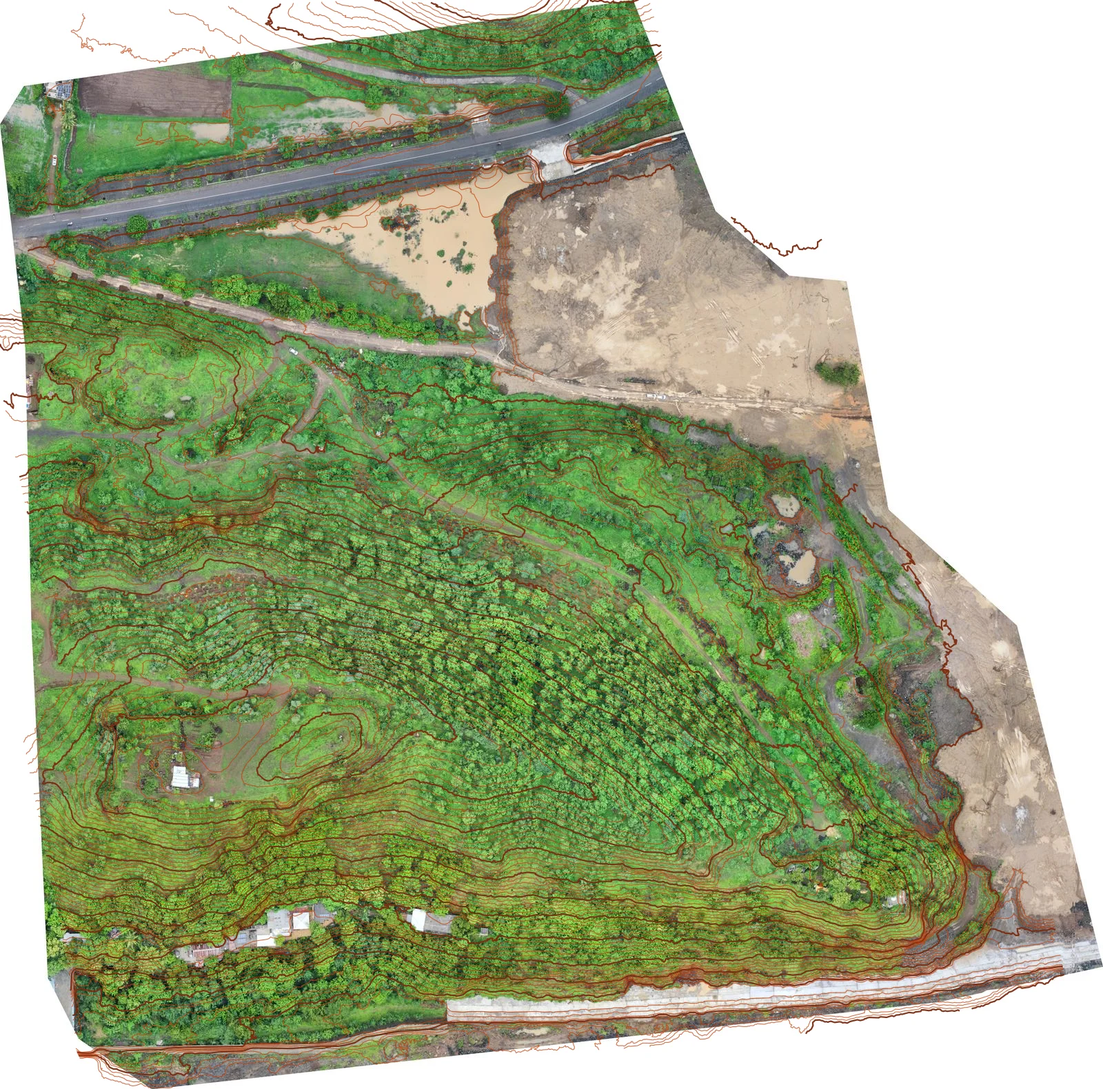
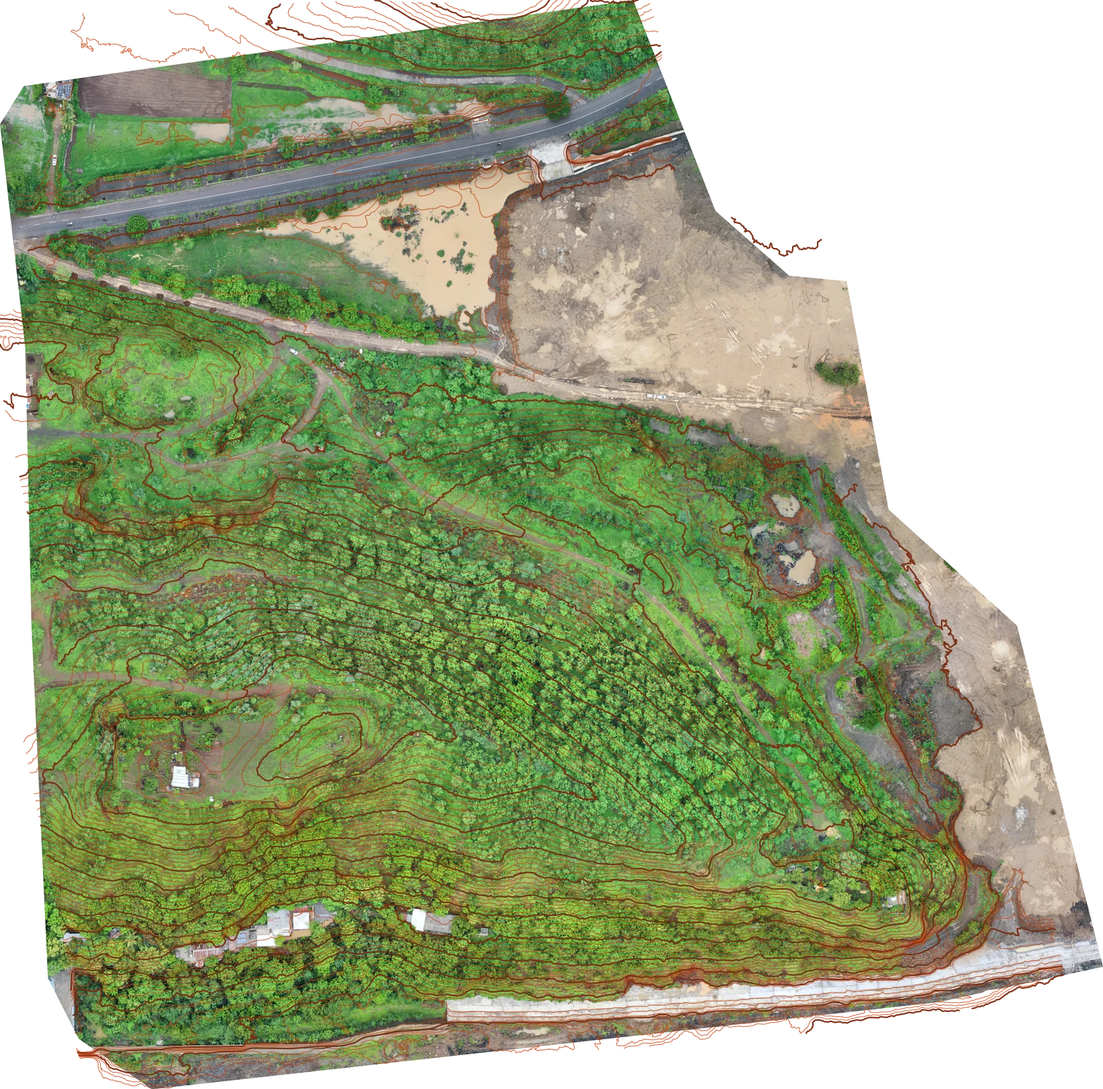
UI pass over the dashboard: targets, labels, cropping and fit
Went through every portal screen at 1440x900 and 390x844, with an audit for the
things looking cannot catch: target sizes, accessible names, horizontal overflow,
clipped text, focus rings and keyboard order.

## Thumbnails were cropping the survey away

The asset grid used object-cover, so a DSM thumbnail was a centre crop: an
abstract orange texture with no recognisable site in it. The whole job of these
tiles is that a client sees their own site at a glance, which means the edges have
to be in frame. object-contain on a padded background, and the hover scale is
gone because growing a contained image just pushes its edges back under the crop.

Cards in a row now end level too. Descriptions run to one line, two, or none, so
the bottom edges were staggering by 10 to 30px and the grid stopped reading as a
grid.

## The white slab, again, in the previews

Fixed in the tiles last time but not in the previews, so two of the four
thumbnails carried a white rectangle while the DSM and DTM showed through to the
card. Same bug, second location. make-site-previews.mjs now runs the same border
mask, and the contour sheet composites onto the masked raster rather than the raw
JPEG. 26% cleared, and all four previews match.

## Accessible names were wrong in two ways

Read out of the accessibility tree rather than guessed at:

- Every slider announced as "Orthomosaicopacity". The sr-only span sat directly
  against the title with no separating space.
[…]

diff --git a/src/components/portal/MapViewer.tsx b/src/components/portal/MapViewer.tsx
@@ -634,12 +634,12 @@ export default function MapViewer({ siteSlug, siteName, layers }: Props) {
           </span>
         ) : null}
         {hasTerrain ? (
-          <label className="ml-auto flex items-center gap-2 text-xs text-ink/70">
+          <label className="ml-auto flex min-h-6 cursor-pointer items-center gap-2 py-0.5 text-xs text-ink/70">
             <input
               type="checkbox"
               checked={hillshade}
               onChange={(e) => setHillshade(e.target.checked)}
-              className="h-3.5 w-3.5 rounded border-ink/25 text-accent-600 focus:ring-accent-600"
+              className="h-4 w-4 rounded border-ink/25 text-accent-600 focus:ring-accent-600"
             />
             Relief shading
           </label>
@@ -651,7 +651,20 @@ export default function MapViewer({ siteSlug, siteName, layers }: Props) {
           ref={container}
           role="application"
           aria-label={`Survey map of ${siteName}`}
-          className="h-[68vh] min-h-[420px] w-full bg-mist"
+          /**
+           * Sized to what is left of the viewport, not to a flat 68vh.
+           * At 68vh on a 900px laptop the map ran past the fold, so the bottom of
+           * the layer tree and the basemap toggle were only reachable by scrolling
+           * the page, which is the one thing you do not want to do while panning a
+           * map. clamp keeps it usable on a short window and stops it becoming
+           * absurd on a tall one.
+           *
+           * 26rem is measured, not guessed: the page chrome above the canvas is
+           * 389px (header, back link, title, section heading, toolbar), so
+           * 100vh-20rem left the card 70px past the fold at every viewport height
+           * tested. 26rem leaves it about 25px of clearance.
+           */
+          className="h-[clamp(360px,calc(100vh-26rem),760px)] w-full bg-mist"
         />
 
         {!ready ? (
@@ -770,7 +783,10 @@ function LayerTree({
                 const on = isDem ? hillshade : Boolean(visible[layer.key]);
                 return (
                   <div key={layer.key}>
-                    <label className="flex items-center gap-2 text-sm text-ink-900">
+                    {/* min-h-6 so the row itself clears the 24px minimum target
+                        size. The visible box stays 16px; the label is what gets
+                        clicked, and it spans the full width of the panel. */}
+                    <label className="flex min-h-6 cursor-pointer items-center gap-2 py-0.5 text-sm text-ink-900">
                       <input
                         type="checkbox"
                         checked={on}
@@ -792,11 +808,30 @@ function LayerTree({
                       </p>
                     ) : null}
 
-                    <label className="ml-6 mt-1.5 flex items-center gap-2">
-                      <span className="sr-only">
-                        {layer.title} {isDem ? "relief strength" : "opacity"}
-                      </span>
+                    {/*
+                      The slider carries its own visible label and value.
+                      It used to be an unlabelled 1px-high track: a sighted user had
+                      no idea what it did, and the accessible name came out as
+                      "Orthomosaicopacity" because the sr-only span sat directly
+                      against the title with no separating space.
+                    */}
+                    <div className="ml-6 mt-1.5">
+                      <div className="flex items-baseline justify-between gap-2">
+                        <label
+                          htmlFor={`op-${layer.key}`}
+                          className={`text-[10px] uppercase tracking-wide ${on ? "text-ink/45" : "text-ink/25"}`}
+                        >
+                          {isDem ? "Relief" : "Opacity"}
+                        </label>
+                        <span
+                          aria-hidden
+                          className={`font-mono text-[10px] ${on ? "text-ink/45" : "text-ink/25"}`}
+                        >
+                          {Math.round((opacity[layer.key] ?? RASTER_OPACITY) * 100)}%
+                        </span>
+                      </div>
                       <input
+                        id={`op-${layer.key}`}
                         type="range"
                         min={0}
                         max={100}
@@ -805,9 +840,14 @@ function LayerTree({
                         onChange={(e) =>
                           setOpacity((o) => ({ ...o, [layer.key]: Number(e.target.value) / 100 }))
                         }
-                        className="h-1 w-full accent-accent-600 disabled:opacity-40"
+                        // h-6 is the hit area, not the track. A range input renders
+                        // its track at the browser default thickness and centres the
+                        // thumb, so this is a 24px grab target that still looks like a
+                        // hairline. It was 6px, which is fiddly with a mouse and worse
+                        // with a thumb.
+                        className="h-6 w-full cursor-pointer accent-accent-600 disabled:cursor-not-allowed disabled:opacity-40"
                       />
-                    </label>
+                    </div>
 
                     {isDem ? (
                       <p className="ml-6 mt-1 text-[11px] leading-snug text-ink/55">
@@ -827,21 +867,28 @@ function LayerTree({
         <legend className="mb-2 text-[11px] font-semibold uppercase tracking-wider text-ink/50">
           Base map
         </legend>
-        <label className="flex items-start gap-2 text-sm text-ink-900">
+        {/*
+          The explanation is a description, not part of the name.
+          Nested inside the label it became part of the accessible name, so a
+          screen reader announced "OpenStreetMap Off by default. Turning this on
+          requests map tiles from OpenStreetMap, which reveals roughly where this
+          site is to a third party, checkbox" every single time. aria-describedby
+          keeps the reasoning available without reading an essay on focus.
+        */}
+        <label className="flex min-h-6 items-center gap-2 py-0.5 text-sm text-ink-900">
           <input
             type="checkbox"
             checked={basemap}
             onChange={(e) => setBasemap(e.target.checked)}
-            className="mt-0.5 h-4 w-4 rounded border-ink/25 text-accent-600 focus:ring-accent-600"
+            aria-describedby="basemap-privacy"
+            className="h-4 w-4 rounded border-ink/25 text-accent-600 focus:ring-accent-600"
           />
-          <span>
-            OpenStreetMap
-            <span className="mt-0.5 block text-[11px] leading-snug text-ink/55">
-              Off by default. Turning this on requests map tiles from OpenStreetMap,
-              which reveals roughly where this site is to a third party.
-            </span>
-          </span>
+          OpenStreetMap
         </label>
+        <p id="basemap-privacy" className="ml-6 mt-0.5 text-[11px] leading-snug text-ink/55">
+          Off by default. Turning this on requests map tiles from OpenStreetMap,
+          which reveals roughly where this site is to a third party.
+        </p>
       </fieldset>
     </div>
   );

diff --git a/src/app/portal/[siteSlug]/[category]/page.tsx b/src/app/portal/[siteSlug]/[category]/page.tsx
@@ -35,23 +35,36 @@ export default async function CategoryPage({
       ) : category.layout === "gallery" ? (
         <ul className="grid gap-4 sm:grid-cols-2 xl:grid-cols-3">
           {assets.map((asset) => (
-            <li key={asset.id}>
+            // Cards in a row have to end level. Descriptions run to one line, two,
+            // or none at all, so without stretching the row the bottom edges
+            // stagger by 10 to 30px and the grid stops reading as a grid.
+            <li key={asset.id} className="flex">
               <Link
                 href={`/portal/${site.slug}/${category.slug}/${asset.id}`}
-                className="surface surface-hover group block overflow-hidden"
+                className="surface surface-hover group flex w-full flex-col overflow-hidden"
               >
                 {/*
                   Plain img, not next/image: the optimizer would cache client
                   imagery on a shared CDN, and this data is private.
                 */}
-                <span className="block aspect-[4/3] overflow-hidden bg-mist">
+                {/*
+                  object-contain, not object-cover.
+                  A survey footprint is an irregular shape, and cover crops to the
+                  centre, so a DSM thumbnail became an abstract orange texture with
+                  no recognisable site in it. The whole point of these tiles is that
+                  a client recognises their own site at a glance, which means the
+                  edges have to be in frame. p-2 keeps the artwork off the border,
+                  and the scale on hover is dropped: growing a contained image just
+                  pushes its edges under the crop.
+                */}
+                <span className="block aspect-[4/3] overflow-hidden bg-mist p-2">
                   {/* eslint-disable-next-line @next/next/no-img-element */}
                   <img
                     src={`/api/portal/assets/${asset.id}/view`}
                     alt={asset.title}
                     loading="lazy"
                     draggable={false}
-                    className="h-full w-full select-none object-cover transition-transform duration-500 group-hover:scale-[1.03]"
+                    className="h-full w-full select-none object-contain transition-opacity duration-300 group-hover:opacity-90"
                   />
                 </span>
                 <span className="block p-4">

diff --git a/src/components/portal/SiteTabs.tsx b/src/components/portal/SiteTabs.tsx
@@ -14,9 +14,19 @@ export default function SiteTabs({ tabs }: { tabs: Tab[] }) {
   const pathname = usePathname();
 
   return (
+    /**
+     * On a phone this is a horizontally scrolling row, and there was nothing to
+     * say so: the last tab sat flush against the edge looking like the end of the
+     * list rather than the start of an overflow. The mask fades the right edge, so
+     * a cut off tab reads as "there is more this way".
+     *
+     * Implemented as a mask rather than a gradient overlay because the row scrolls
+     * under it; an opaque overlay would need to match the page background, and this
+     * page has two of them.
+     */
     <nav
       aria-label="Site sections"
-      className="-mx-6 shrink-0 overflow-x-auto px-6 pb-2 lg:mx-0 lg:w-56 lg:overflow-visible lg:px-0 lg:pb-0"
+      className="-mx-6 shrink-0 overflow-x-auto px-6 pb-2 [mask-image:linear-gradient(to_right,transparent_0,black_1.5rem,black_calc(100%-2.5rem),transparent_100%)] lg:mx-0 lg:w-56 lg:overflow-visible lg:px-0 lg:pb-0 lg:[mask-image:none]"
     >
       <ul className="flex gap-2 lg:flex-col lg:gap-1">
         {tabs.map((tab) => {

diff --git a/src/app/portal/[siteSlug]/layout.tsx b/src/app/portal/[siteSlug]/layout.tsx
@@ -59,7 +59,10 @@ export default async function SiteLayout({
     <div className="container-px flex-1 py-8 sm:py-10">
       <Link
         href="/portal"
-        className="mb-5 inline-flex items-center gap-1.5 text-xs font-semibold text-ink/60 transition-colors hover:text-accent-600"
+        // -ml-2 keeps the text optically aligned with the heading below while the
+        // padding gives the link a target that clears 24px. It was 63x16, which is
+        // a small thing to hit on a phone and the only way back to the site list.
+        className="mb-4 -ml-2 inline-flex min-h-6 items-center gap-1.5 rounded-lg px-2 py-1.5 text-xs font-semibold text-ink/60 transition-colors hover:bg-ink/[0.04] hover:text-accent-600"
       >
         <span aria-hidden>&larr;</span> All sites
       </Link>
